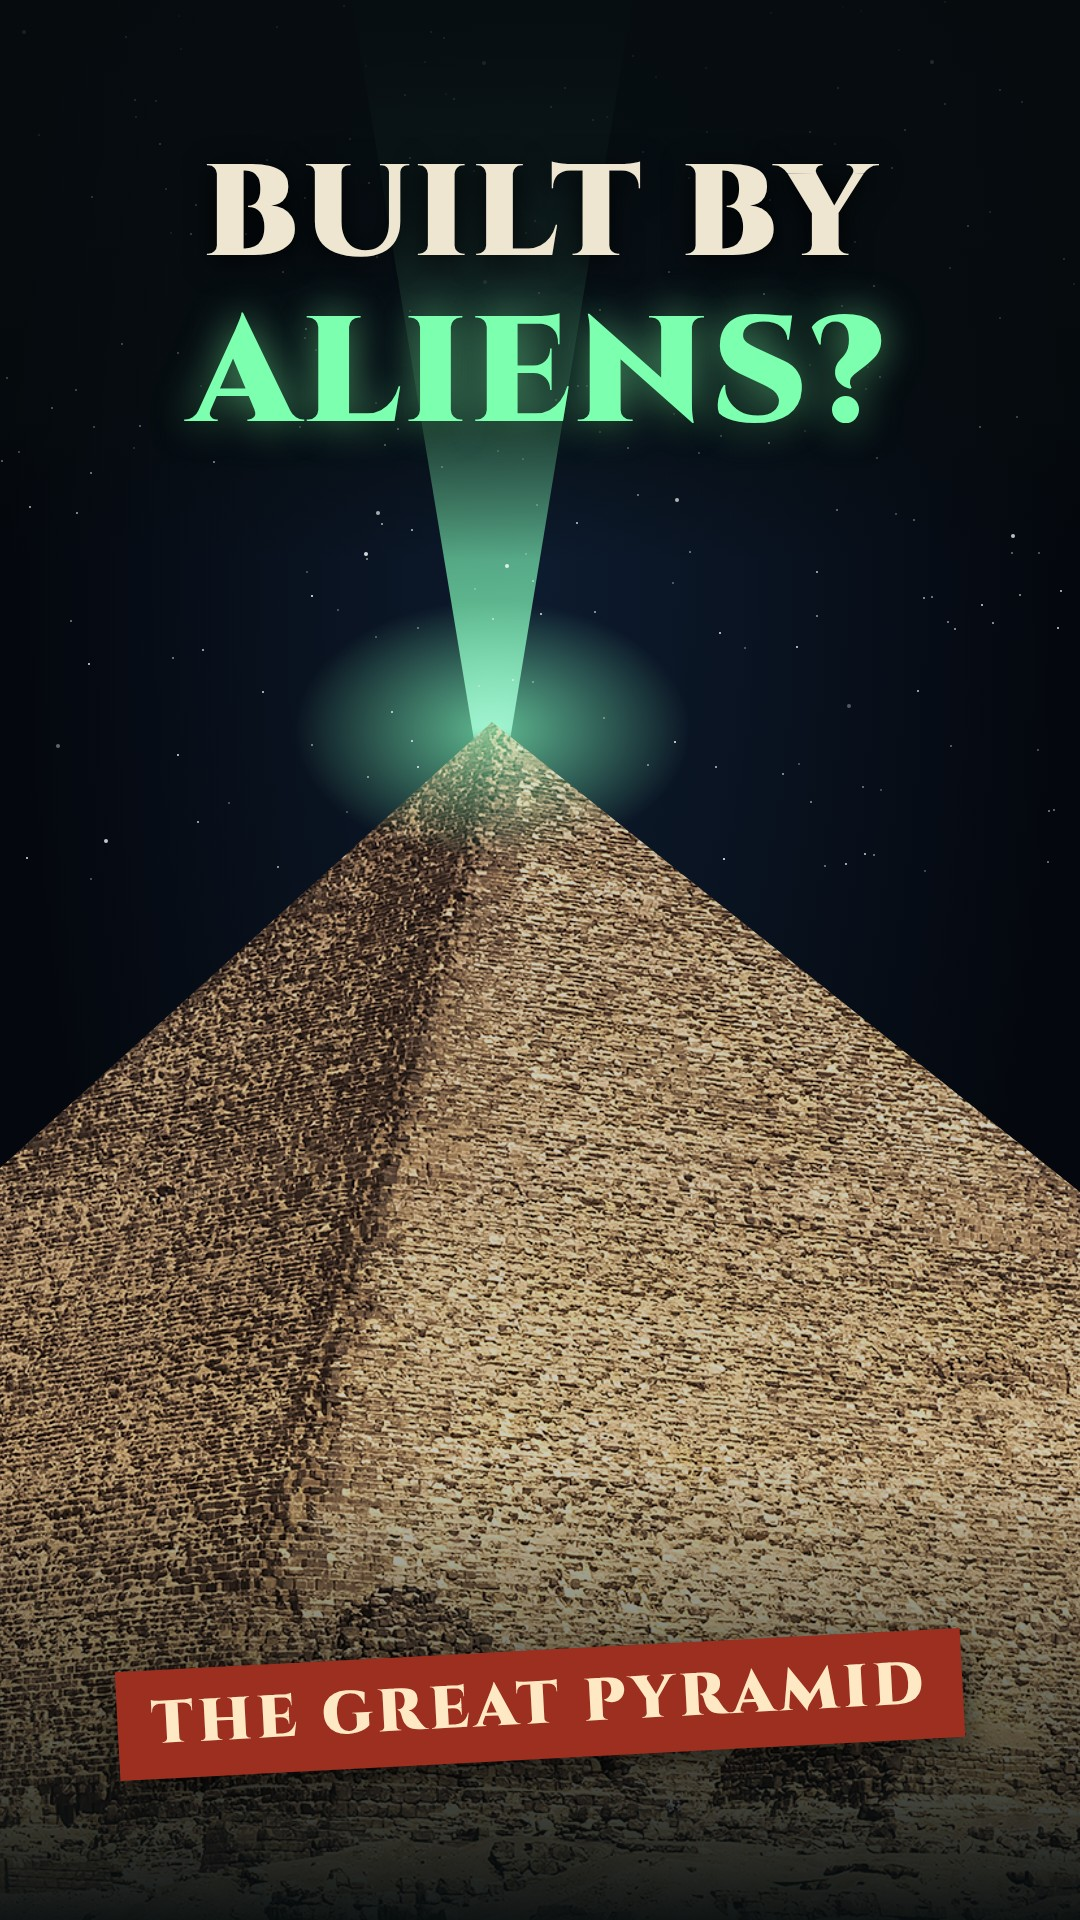
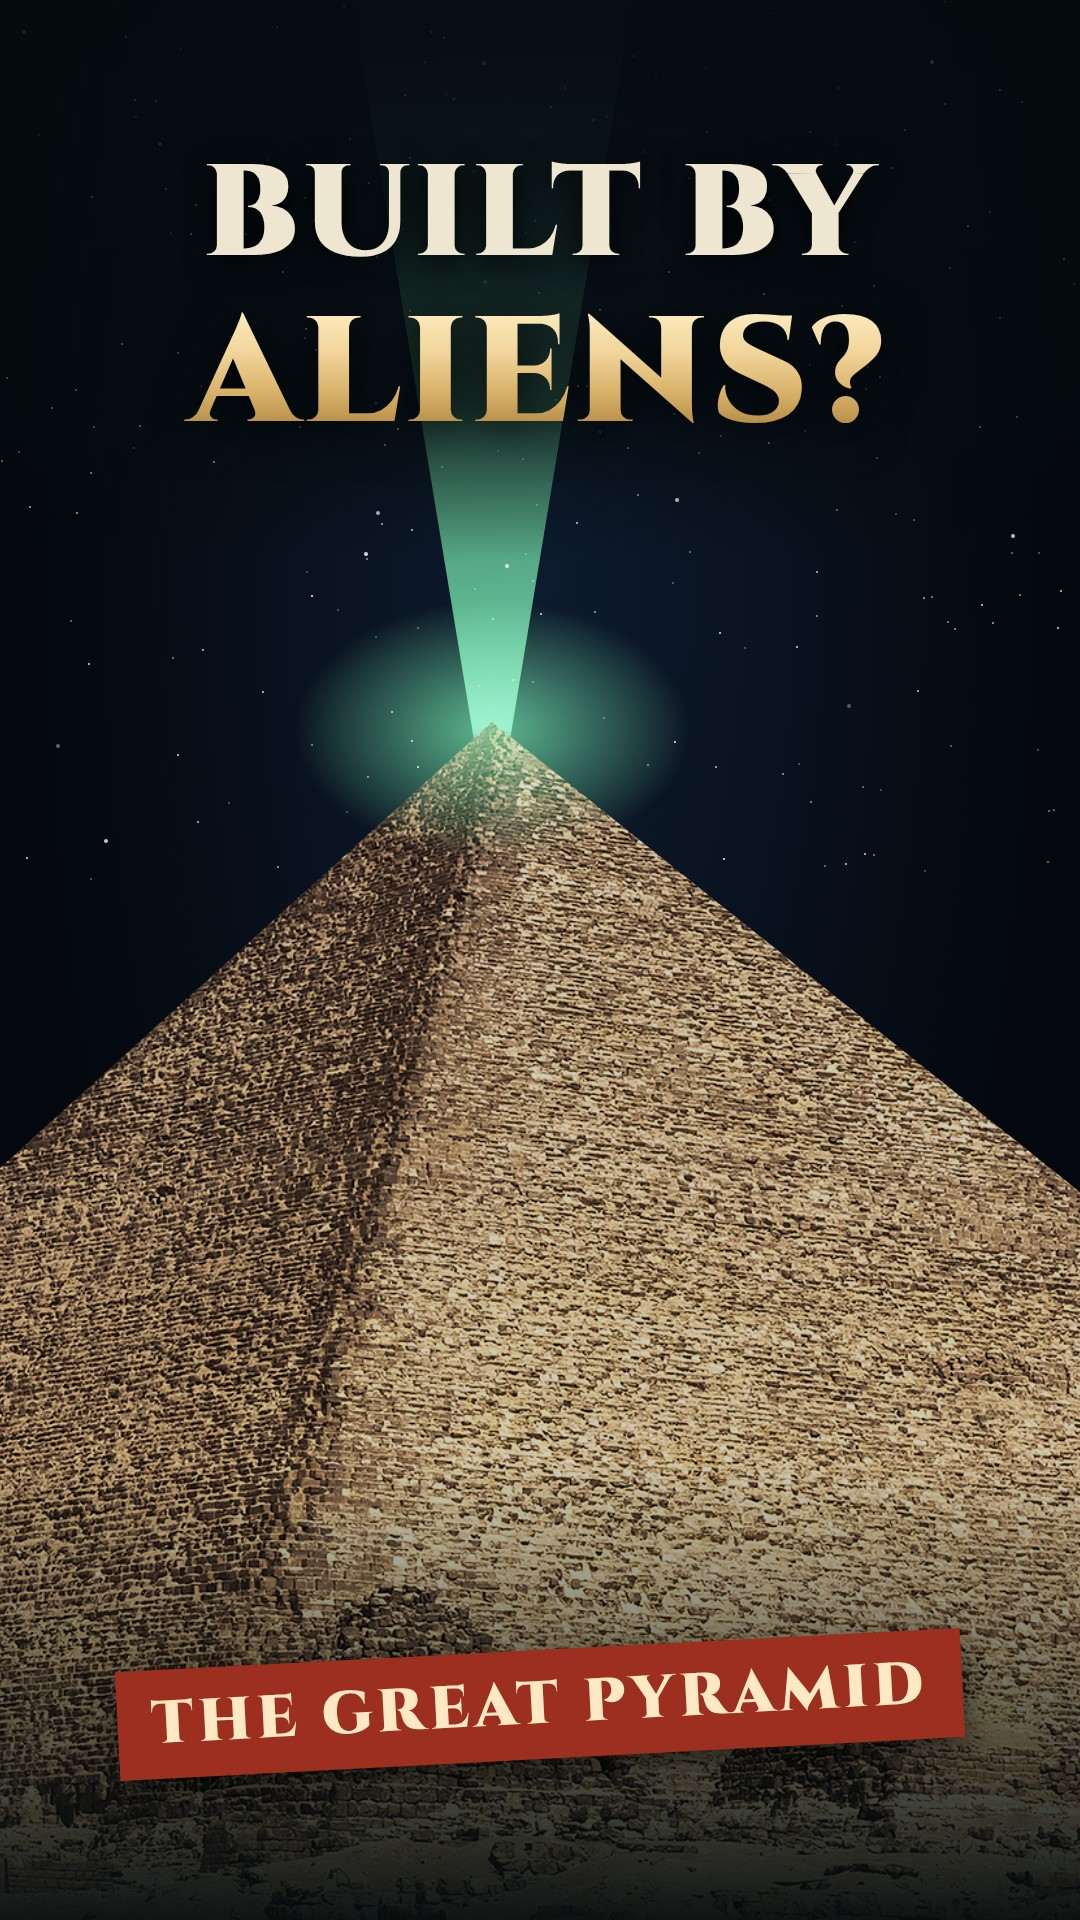
Egypt pyramids Short: cover headline in the channel's gold
Claude-Session: https://claude.ai/code/session_01QuaBXUX8p6oYK9pXbmuWTU

Changed region(s): [[0.1833, 0.1562, 0.825, 0.25]]

diff --git a/projects/egypt-pyramids/thumb/cover.html b/projects/egypt-pyramids/thumb/cover.html
@@ -9,7 +9,7 @@ html,body{margin:0;background:#05090a}
 #shade{position:absolute;inset:0;background:linear-gradient(180deg,rgba(6,12,14,.9) 0,rgba(6,12,14,.6) 420px,rgba(6,12,14,0) 560px),linear-gradient(0deg,rgba(6,12,14,.95) 0,rgba(6,12,14,0) 460px)}
 .h{position:absolute;left:0;right:0;text-align:center;font-family:'Cinzel';font-weight:900;letter-spacing:4px;line-height:1.02;text-shadow:0 6px 30px rgba(0,0,0,.9)}
 #h1{top:150px;font-size:130px;color:#efe6d2}
-#h2{top:300px;font-size:150px;color:#7dffb0;text-shadow:0 0 40px rgba(125,255,176,.6),0 6px 30px rgba(0,0,0,.9)}
+#h2{top:300px;font-size:150px;color:#f1d49a;background:linear-gradient(180deg,#fff1c7 0%,#f1d49a 35%,#d9b26a 60%,#9a6f2c 100%);-webkit-background-clip:text;background-clip:text;-webkit-text-fill-color:transparent;text-shadow:none;filter:drop-shadow(0 6px 24px rgba(0,0,0,.9))}
 #tag{position:absolute;left:0;right:0;top:1650px;display:flex;justify-content:center}
 #tag div{font-family:'Cinzel';font-weight:900;font-size:60px;letter-spacing:5px;color:#ffe9c4;background:#9c2f1f;padding:14px 34px;transform:rotate(-3deg);box-shadow:0 10px 30px rgba(0,0,0,.6)}
 </style></head><body><div id="c">
